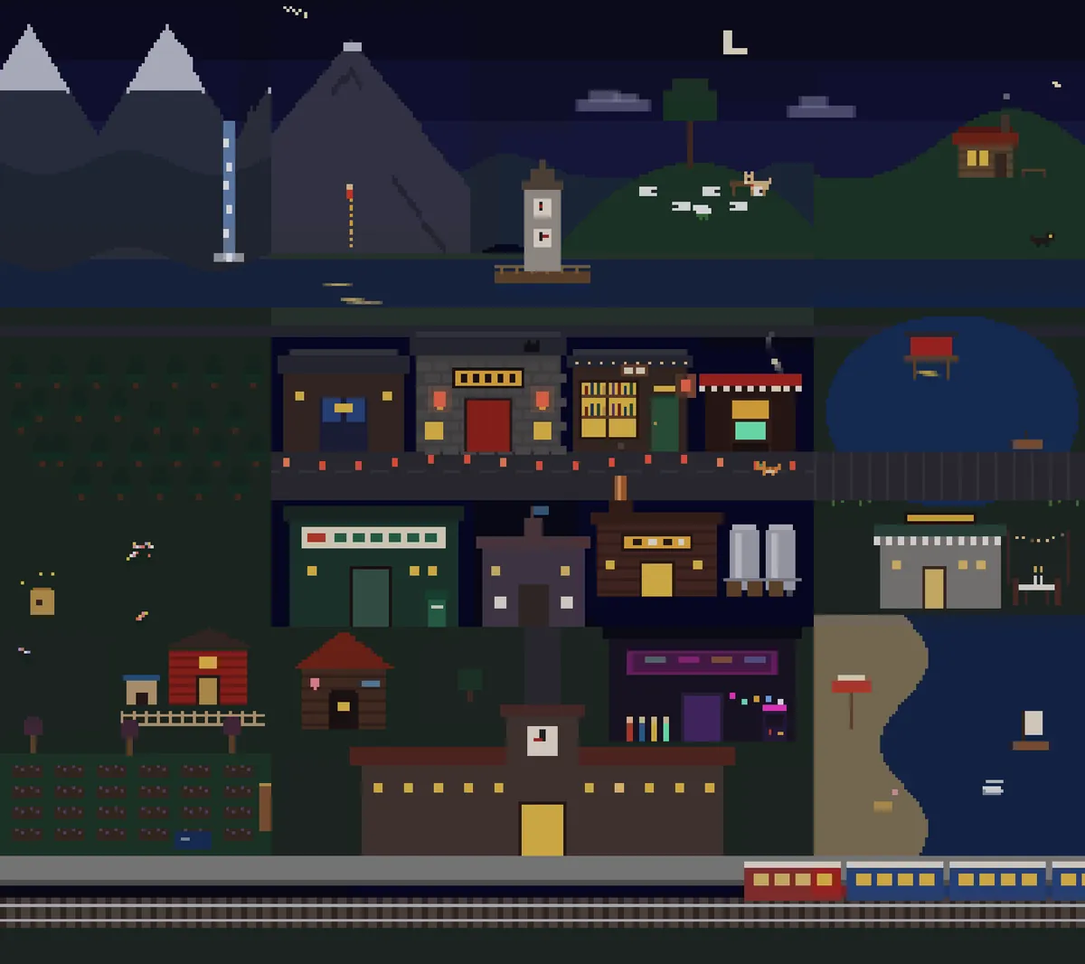
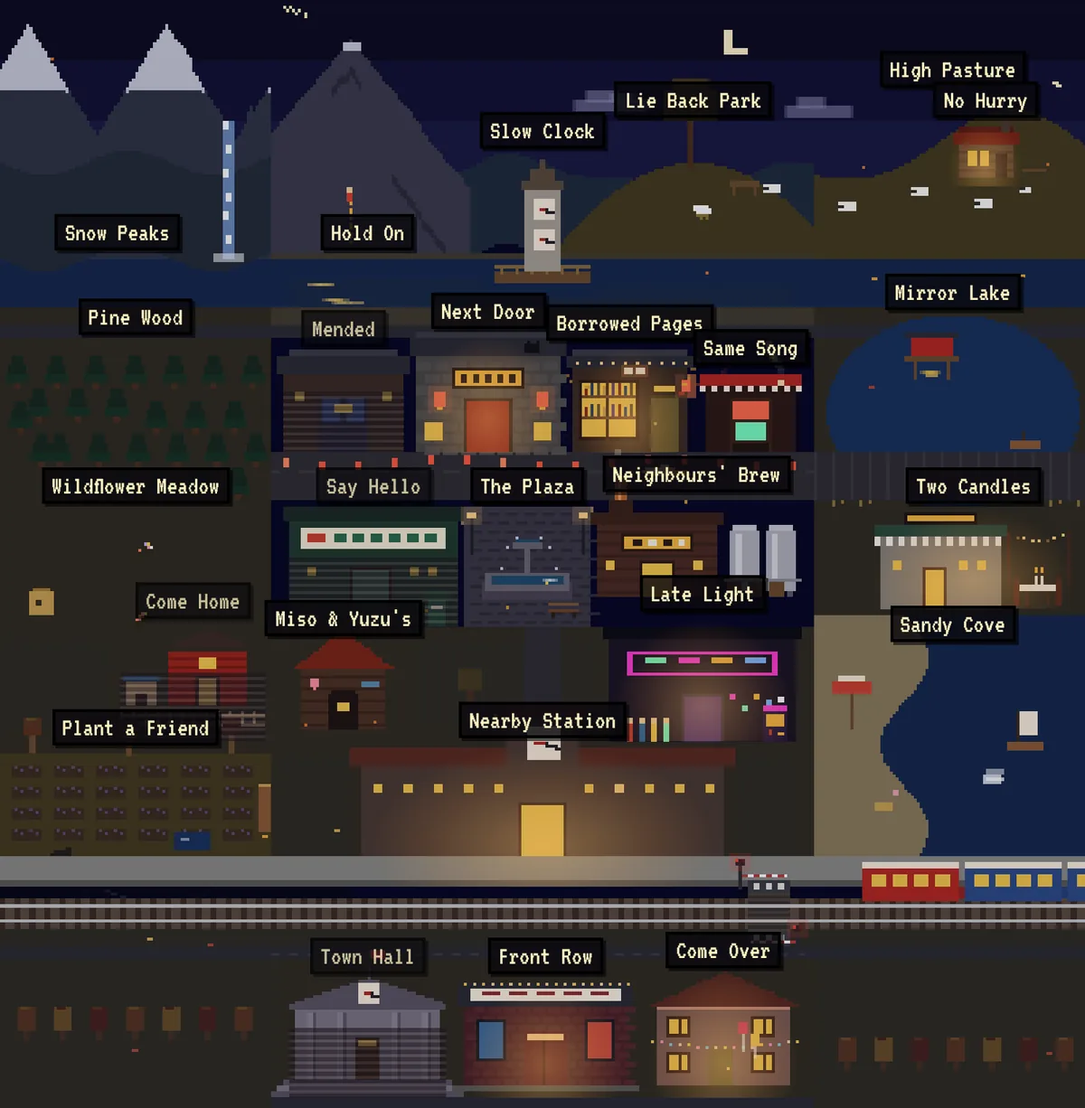
Why Nearby: four hosts, one place of each kind, Popo's tin, the visitor's season, new map; warms the town before you walk in
Claude-Session: https://claude.ai/code/session_01MUvzkAwQo5i5GES16poo5v

diff --git a/nearby/about/index.html b/nearby/about/index.html
@@ -102,6 +102,10 @@ h1{overflow-wrap:break-word;-webkit-hyphens:auto;hyphens:auto}h1 em{font-style:n
 .shot b{display:block;font:700 15px/1.2 var(--sans)}
 .shot b span{margin-right:4px}
 .shot p{margin:4px 0 0;font-size:13px;line-height:1.4;color:var(--mut)}
+.shot small{display:block;margin-bottom:5px;font:400 8px/1.4 var(--p2);letter-spacing:.04em;text-transform:uppercase;color:var(--acc2)}
+.two{display:grid;gap:14px}@media (min-width:760px){.two{grid-template-columns:1fr 1fr}}
+.two .card.night h3{font-size:28px;line-height:1.05;align-items:flex-start}
+.two canvas{width:32px;height:32px;flex:none;image-rendering:pixelated;margin-top:-2px}
 
 /* by day / after hours */
 .shift{display:grid;gap:14px}.shift>*{min-width:0}
@@ -174,8 +178,8 @@ h1{overflow-wrap:break-word;-webkit-hyphens:auto;hyphens:auto}h1 em{font-style:n
       </div>
     </div>
     <a class="frame bw" id="hero" href="/nearby/">
-      <img src="town.webp" width="1200" height="1066" alt="" data-ka="mapAlt" fetchpriority="high">
-      <span class="hour" aria-hidden="true">☾ 20:00</span>
+      <img src="town.webp" width="1200" height="1226" alt="" data-ka="mapAlt" fetchpriority="high">
+      <span class="hour" aria-hidden="true">☾ 21:20</span>
     </a>
   </section>
 
@@ -186,18 +190,34 @@ h1{overflow-wrap:break-word;-webkit-hyphens:auto;hyphens:auto}h1 em{font-style:n
       <div class="sign"><i aria-hidden="true">🌿</i><div><b data-k="r2t">Then go outside.</b><p data-k="r2">Leaving a place ends with something to do off the screen.</p></div></div>
       <div class="sign"><i aria-hidden="true">🛋</i><div><b data-k="r3t">A cabin, a candle, the stars.</b><p data-k="r3">Warm grass on the hill. Nothing to win.</p></div></div>
       <div class="sign"><i aria-hidden="true">🚫</i><div><b data-k="r4t">No scores.</b><p data-k="r4">No streaks, no badges, no leaderboards.</p></div></div>
-      <div class="sign"><i aria-hidden="true">🍸</i><div><b data-k="r5t">Wei is a guide.</b><p data-k="r5">The bartender points you somewhere, then lets you go.</p></div></div>
-      <div class="sign"><i aria-hidden="true">🔒</i><div><b data-k="r6t">Yours stays yours.</b><p><a href="/privacy/" data-k="r6">Nothing leaves your device unless you say so. No tracking.</a></p></div></div>
+      <div class="sign"><i aria-hidden="true">🍸</i><div><b data-k="r5t">Someone's behind the counter.</b><p data-k="r5">Wei, his cousin Mei, his grandmother Popo or the cats. They point you somewhere, then let you go.</p></div></div>
+      <div class="sign"><i aria-hidden="true">🔒</i><div><b data-k="r6t">Yours stays yours.</b><p><a href="/privacy/" data-k="r6">Nothing leaves your device unless you say so. No tracking, and it asks before a phone number or email goes public.</a></p></div></div>
     </div>
   </section>
 
   <section class="wrap sec" aria-labelledby="h-look">
     <div class="sh rv"><h2 id="h-look" data-k="lookH">Look around</h2><span>04</span></div>
     <div class="shots">
-      <a class="shot rv" href="/nearby/lie-back/"><div class="im"><img src="lie-back.webp" width="800" height="500" loading="lazy" alt=""></div><div><b><span aria-hidden="true">☁</span><span data-p="cloud.n">Lie Back Park</span></b><p data-p="cloud.l">Warm grass, slow clouds.</p></div></a>
-      <a class="shot rv" href="/nearby/no-hurry/"><div class="im"><img src="no-hurry.webp" width="800" height="625" loading="lazy" alt=""></div><div><b><span aria-hidden="true">🛖</span><span data-p="cabin.n">No Hurry</span></b><p data-p="cabin.l">A window, a candle, the kettle on.</p></div></a>
-      <a class="shot rv" href="/nearby/say-hello/"><div class="im"><img src="say-hello.webp" width="800" height="496" loading="lazy" alt=""></div><div><b><span aria-hidden="true">📮</span><span data-p="postcard.n">Say Hello</span></b><p data-p="postcard.l">Send a postcard that opens on the day you choose.</p></div></a>
-      <a class="shot rv" href="/nearby/two-candles/"><div class="im"><img src="two-candles.webp" width="800" height="505" loading="lazy" alt=""></div><div><b><span aria-hidden="true">🕯</span><span data-p="table.n">Two Candles</span></b><p data-p="table.l">A table for two, however far apart.</p></div></a>
+      <a class="shot rv" href="/nearby/lie-back/"><div class="im"><img src="lie-back.webp" width="800" height="500" loading="lazy" alt=""></div><div><small data-k="kCalm">Quiet</small><b><span aria-hidden="true">☁</span><span data-p="cloud.n">Lie Back Park</span></b><p data-p="cloud.l">Warm grass, slow clouds.</p></div></a>
+      <a class="shot rv" href="/nearby/plaza/"><div class="im"><img src="plaza.webp" width="800" height="500" loading="lazy" alt=""></div><div><small data-k="kMake">Make something</small><b><span aria-hidden="true">⛲</span><span data-p="plaza.n">The Plaza</span></b><p data-p="plaza.l">A fountain, a coin, a wish.</p></div></a>
+      <a class="shot rv" href="/nearby/two-candles/"><div class="im"><img src="two-candles.webp" width="800" height="505" loading="lazy" alt=""></div><div><small data-k="kFriend">With a friend</small><b><span aria-hidden="true">🕯</span><span data-p="table.n">Two Candles</span></b><p data-p="table.l">A table for two, however far apart.</p></div></a>
+      <a class="shot rv" href="/nearby/come-over/"><div class="im"><img src="come-over.webp" width="800" height="600" loading="lazy" alt=""></div><div><small data-k="kReal">Something real</small><b><span aria-hidden="true">🎈</span><span data-p="party.n">Come Over</span></b><p data-p="party.l">Plan a real get-together and see who's coming.</p></div></a>
+    </div>
+  </section>
+
+  <section class="wrap sec" aria-labelledby="h-story">
+    <div class="sh rv"><h2 id="h-story" data-k="storyH">Where it comes from</h2><span>02</span></div>
+    <div class="two">
+      <div class="card night rv">
+        <span class="k" data-k="tinK">Popo's tin</span>
+        <h3><canvas id="tin" width="16" height="16" aria-hidden="true"></canvas><span data-k="tinT">Twelve things in a blue biscuit tin.</span></h3>
+        <p data-k="tinP">Popo came from Hong Kong to Barcelona in 1968, at nineteen. The things she kept turn up around town, one at a time, and tell how Nearby began. The last one is a photo with an empty chair. It's for you.</p>
+      </div>
+      <div class="card night rv">
+        <span class="k" data-k="calK">The calendar</span>
+        <h3><span aria-hidden="true" id="seaI">🍂</span><span id="calT">It's autumn here too.</span></h3>
+        <p data-k="calP">The seasons, the length of the day and the weather follow your own calendar. Lanterns float at Mid-Autumn, roses and books come out on Sant Jordi, and lights go up over the lanes in winter.</p>
+      </div>
     </div>
   </section>
 
@@ -215,7 +235,7 @@ h1{overflow-wrap:break-word;-webkit-hyphens:auto;hyphens:auto}h1 em{font-style:n
         <div class="stars" aria-hidden="true" id="stars"></div>
         <span class="k" data-k="nightK">After hours</span>
         <h3><span aria-hidden="true">🏘</span><span data-k="town">Nearby</span></h3>
-        <p data-k="nightP">The same idea after work: a sealed postcard, a table for two, a bartender who listens.</p>
+        <p data-k="nightP">The same idea after work: a sealed postcard, a table for two, a grandmother who cooks for whoever walks in.</p>
         <a class="px pri" href="/nearby/" style="align-self:flex-start"><span data-k="walk">Walk in</span><span aria-hidden="true">→</span></a>
       </div>
     </div>
@@ -252,7 +272,7 @@ h1{overflow-wrap:break-word;-webkit-hyphens:auto;hyphens:auto}h1 em{font-style:n
     sub: ["A little world that sends you back to yours.", "一个小小的世界，把你送回你自己的世界。", "一個小小的世界，把你送回你自己的世界。", "Un mundo pequeño que te devuelve al tuyo.", "Un món petit que et torna al teu."],
     walk: ["Walk in", "走进去", "走進去", "Entra", "Entra"],
     stool: ["Pull up a stool", "拉张凳子坐", "拉張凳子坐", "Siéntate en la barra", "Seu a la barra"],
-    mapAlt: ["Nearby at night: a bar, a bookshop, a place to send postcards, a cabin on the hill, a lake, a station.", "夜里的近邻：一间酒吧、一家书店、一个寄明信片的地方、山坡上的小屋、一片湖、一座车站。", "夜裡的近鄰：一間酒吧、一家書店、一個寄明信片的地方、山坡上的小屋、一片湖、一座車站。", "Cerca de noche: un bar, una librería, un sitio para mandar postales, una cabaña en la colina, un lago, una estación.", "A Prop de nit: un bar, una llibreria, un lloc per enviar postals, una cabana al turó, un llac, una estació."],
+    mapAlt: ["Nearby at night: a bar, a bookshop, a fountain, a cabin on the hill, a lake, a station, and over the tracks a town hall, a cinema and a house with its lights on.", "夜里的近邻：一间酒吧、一家书店、一座喷泉、山坡上的小屋、一片湖、一座车站；铁轨那边还有镇公所、电影院和一栋亮着灯的房子。", "夜裡的近鄰：一間酒吧、一家書店、一座噴泉、山坡上的小屋、一片湖、一座車站；鐵軌那邊還有鎮公所、電影院和一棟亮著燈的房子。", "Cerca de noche: un bar, una librería, una fuente, una cabaña en la colina, un lago, una estación y, al otro lado de las vías, un ayuntamiento, un cine y una casa con las luces encendidas.", "A Prop de nit: un bar, una llibreria, una font, una cabana al turó, un llac, una estació i, a l'altra banda de les vies, un ajuntament, un cinema i una casa amb els llums encesos."],
     rulesH: ["House rules", "镇规", "鎮規", "Normas de la casa", "Normes de la casa"],
     r1t: ["Bring someone.", "带个人来。", "帶個人來。", "Trae a alguien.", "Porta algú."],
     r1: ["Every place works alone or with a friend far away. One link.", "每个地方都能一个人逛，也能和远方的朋友一起。一个链接就行。", "每個地方都能一個人逛，也能和遠方的朋友一起。一個連結就行。", "Cada sitio funciona solo o con un amigo lejos. Un enlace.", "Cada lloc funciona sol o amb un amic lluny. Un enllaç."],
@@ -262,18 +282,30 @@ h1{overflow-wrap:break-word;-webkit-hyphens:auto;hyphens:auto}h1 em{font-style:n
     r3: ["Warm grass on the hill. Nothing to win.", "山坡上暖暖的草地。没有输赢。", "山坡上暖暖的草地。沒有輸贏。", "Hierba tibia en la colina. Nada que ganar.", "Herba tèbia al turó. Res a guanyar."],
     r4t: ["No scores.", "不计分。", "不計分。", "Sin puntos.", "Sense punts."],
     r4: ["No streaks, no badges, no leaderboards.", "没有连续打卡，没有徽章，没有排行榜。", "沒有連續打卡，沒有徽章，沒有排行榜。", "Sin rachas, sin insignias, sin clasificaciones.", "Sense ratxes, sense insígnies, sense classificacions."],
-    r5t: ["Wei is a guide.", "Wei 只是向导。", "Wei 只是嚮導。", "Wei es un guía.", "En Wei és un guia."],
-    r5: ["The bartender points you somewhere, then lets you go.", "这位酒保给你指个地方，然后放你走。", "這位酒保給你指個地方，然後放你走。", "El barman te indica un sitio y te deja ir.", "El cambrer t'indica un lloc i et deixa anar."],
+    r5t: ["Someone's behind the counter.", "柜台后面总有人。", "櫃檯後面總有人。", "Siempre hay alguien en la barra.", "Sempre hi ha algú a la barra."],
+    r5: ["Wei, his cousin Mei, his grandmother Popo or the cats. They point you somewhere, then let you go.", "Wei、他表妹 Mei、婆婆，或者两只猫。给你指个地方，然后放你走。", "Wei、佢表妹 Mei、婆婆，或者兩隻貓。給你指個地方，然後放你走。", "Wei, su prima Mei, su abuela Popo o los gatos. Te indican un sitio y te dejan ir.", "En Wei, la seva cosina Mei, la seva àvia Popo o els gats. T'indiquen un lloc i et deixen anar."],
     r6t: ["Yours stays yours.", "你的就是你的。", "你的就是你的。", "Lo tuyo es tuyo.", "El que és teu és teu."],
-    r6: ["Nothing leaves your device unless you say so. No tracking.", "除非你同意，什么都不会离开你的设备。不追踪。", "除非你同意，什麼都不會離開你的裝置。不追蹤。", "Nada sale de tu dispositivo sin tu permiso. Sin rastreo.", "Res surt del teu dispositiu sense el teu permís. Sense rastreig."],
+    r6: ["Nothing leaves your device unless you say so. No tracking, and it asks before a phone number or email goes public.", "除非你同意，什么都不会离开你的设备。不追踪；电话号码或邮箱要公开前，会先问你一句。", "除非你同意，什麼都不會離開你的裝置。不追蹤；電話號碼或電郵要公開前，會先問你一句。", "Nada sale de tu dispositivo sin tu permiso. Sin rastreo, y antes de publicar un teléfono o un correo, te pregunta.", "Res surt del teu dispositiu sense el teu permís. Sense rastreig, i abans de publicar un telèfon o un correu, et pregunta."],
     lookH: ["Look around", "四处看看", "四處看看", "Echa un vistazo", "Fes un cop d'ull"],
+    kCalm: ["Quiet", "安静一会", "安靜一會", "Tranquilo", "Tranquil"],
+    kMake: ["Make something", "做点什么", "做點什麼", "Haz algo", "Fes alguna cosa"],
+    kFriend: ["With a friend", "和朋友一起", "和朋友一起", "Con alguien", "Amb algú"],
+    kReal: ["Something real", "来点真的", "來點真的", "Algo de verdad", "Alguna cosa de debò"],
+    storyH: ["Where it comes from", "它从哪里来", "它從哪裡來", "De dónde viene", "D'on ve"],
+    tinK: ["Popo's tin", "婆婆的饼干罐", "婆婆的餅乾罐", "La lata de Popo", "La llauna de la Popo"],
+    tinT: ["Twelve things in a blue biscuit tin.", "一个蓝色饼干罐里的十二样东西。", "一個藍色餅乾罐裡的十二樣東西。", "Doce cosas en una lata azul de galletas.", "Dotze coses en una llauna blava de galetes."],
+    tinP: ["Popo came from Hong Kong to Barcelona in 1968, at nineteen. The things she kept turn up around town, one at a time, and tell how Nearby began. The last one is a photo with an empty chair. It's for you.", "1968年，十九岁的婆婆从香港来到巴塞罗那。她留下的东西会一样一样在镇上出现，讲出近邻是怎么来的。最后一样是一张照片，上面有一把空椅子——是留给你的。", "1968年，十九歲的婆婆從香港來到巴塞隆納。她留下的東西會一樣一樣在鎮上出現，講出近鄰是怎麼來的。最後一樣是一張照片，上面有一把空椅子——是留給你的。", "Popo llegó de Hong Kong a Barcelona en 1968, con diecinueve años. Lo que guardó va apareciendo por el pueblo, una cosa cada vez, y cuenta cómo empezó Cerca. La última es una foto con una silla vacía. Es para ti.", "La Popo va arribar de Hong Kong a Barcelona el 1968, amb dinou anys. El que va guardar va apareixent pel poble, una cosa cada vegada, i explica com va començar A Prop. L'última és una foto amb una cadira buida. És per a tu."],
+    calK: ["The calendar", "日历", "日曆", "El calendario", "El calendari"],
+    calT: ["It's {s} here too.", "这里也是{s}。", "這裡也是{s}。", "Aquí también es {s}.", "Aquí també és {s}."],
+    sea: [["spring", "summer", "autumn", "winter"], ["春天", "夏天", "秋天", "冬天"], ["春天", "夏天", "秋天", "冬天"], ["primavera", "verano", "otoño", "invierno"], ["primavera", "estiu", "tardor", "hivern"]],
+    calP: ["The seasons, the length of the day and the weather follow your own calendar. Lanterns float at Mid-Autumn, roses and books come out on Sant Jordi, and lights go up over the lanes in winter.", "季节、白天的长短和天气，都跟着你自己的日历走。中秋湖上漂着灯笼，圣乔治节摆出玫瑰和书，冬天的小巷挂起彩灯。", "季節、白天的長短和天氣，都跟著你自己的日曆走。中秋湖上漂著燈籠，聖喬治節擺出玫瑰和書，冬天的小巷掛起彩燈。", "Las estaciones, lo que dura el día y el tiempo siguen tu propio calendario. Farolillos en el lago por el Medio Otoño, rosas y libros por Sant Jordi, luces sobre las calles en invierno.", "Les estacions, el que dura el dia i el temps segueixen el teu calendari. Fanalets al llac per la Festa de Mitja Tardor, roses i llibres per Sant Jordi, llums pels carrers a l'hivern."],
     shiftH: ["One question, two shifts", "一个问题，两个班次", "一個問題，兩個班次", "Una pregunta, dos turnos", "Una pregunta, dos torns"],
     dayK: ["By day", "白天", "白天", "De día", "De dia"],
     dayP: ["Better work starts between people: short, playful practice in listening, feedback and trust that ends in a real conversation.", "更好的工作，从人与人之间开始：短小好玩的倾听、反馈与信任练习，以一场真实的对话收尾。", "更好的工作，從人與人之間開始：短小好玩的傾聽、回饋與信任練習，以一場真實的對話收尾。", "El buen trabajo empieza entre personas: práctica breve y lúdica de escucha, feedback y confianza que termina en una conversación real.", "La bona feina comença entre persones: pràctica breu i lúdica d'escolta, feedback i confiança que acaba en una conversa real."],
     dayGo: ["See the practice →", "看看这些练习 →", "看看這些練習 →", "Ver las prácticas →", "Veure les pràctiques →"],
     q: ["Can a screen send us back to each other?", "屏幕能不能把我们送回彼此身边？", "螢幕能不能把我們送回彼此身邊？", "¿Puede una pantalla devolvernos los unos a los otros?", "Pot una pantalla tornar-nos els uns als altres?"],
     nightK: ["After hours", "下班以后", "下班以後", "Fuera de horario", "Fora d'horari"],
-    nightP: ["The same idea after work: a sealed postcard, a table for two, a bartender who listens.", "下班后的同一个想法：一张封存的明信片、一张双人桌、一个会倾听的酒保。", "下班後的同一個想法：一張封存的明信片、一張雙人桌、一個會傾聽的酒保。", "La misma idea después del trabajo: una postal sellada, una mesa para dos, un barman que escucha.", "La mateixa idea després de la feina: una postal segellada, una taula per a dos, un cambrer que escolta."],
+    nightP: ["The same idea after work: a sealed postcard, a table for two, a grandmother who cooks for whoever walks in.", "下班后的同一个想法：一张封存的明信片、一张双人桌、一位给每个进门的人做饭的婆婆。", "下班後的同一個想法：一張封存的明信片、一張雙人桌、一位給每個進門的人煮飯的婆婆。", "La misma idea después del trabajo: una postal sellada, una mesa para dos, una abuela que cocina para quien entre.", "La mateixa idea després de la feina: una postal segellada, una taula per a dos, una àvia que cuina per a qui entri."],
     say: ["*slides a coaster* When you're done here, go and see someone you love.", "*推过来一张杯垫* 待够了，就去见你爱的人吧。", "*推過來一張杯墊* 待夠了，就去見你愛的人吧。", "*desliza un posavasos* Cuando acabes aquí, ve a ver a alguien que quieras.", "*fa lliscar un sotagot* Quan acabis aquí, ves a veure algú que estimis."],
     weiCap: ["Wei, the bartender at Next Door", "Wei，“隔壁”的调酒师", "Wei，「隔壁」的調酒師", "Wei, el barman de Al Lado", "En Wei, el cambrer d'Al Costat"],
     irl: ["Meet Wei IRL", "见见 Wei", "見見 Wei", "Conoce a Wei", "Coneix en Wei"],
@@ -285,8 +317,8 @@ h1{overflow-wrap:break-word;-webkit-hyphens:auto;hyphens:auto}h1 em{font-style:n
   /* the places' own names and lines: the same words as the town's list (FBWorld.PLACES in build/fbl.js) */
   var P = {
     cloud: [["Lie Back Park", "看云坡", "看雲坡", "Parque Panza Arriba", "Parc Panxa Enlaire"], ["Warm grass, slow clouds.", "暖暖的草地，慢慢的云。", "暖暖的草地，慢慢的雲。", "Hierba tibia, nubes lentas.", "Herba tèbia, núvols lents."]],
-    cabin: [["No Hurry", "不急", "不急", "Sin Prisa", "Sense Pressa"], ["A window, a candle, the kettle on.", "一扇窗，一支蜡烛，水壶在烧。", "一扇窗，一支蠟燭，水壺在燒。", "Una ventana, una vela, la tetera al fuego.", "Una finestra, una espelma, la tetera al foc."]],
-    postcard: [["Say Hello", "问个好", "問個好", "Di Hola", "Digues Hola"], ["Send a postcard that opens on the day you choose.", "寄一张明信片，到你选的那天才打开。", "寄一張明信片，到你選的那天才打開。", "Envía una postal que se abre el día que elijas.", "Envia una postal que s'obre el dia que triïs."]],
+    plaza: [["The Plaza", "广场", "廣場", "La Plaza", "La Plaça"], ["A fountain, a coin, a wish.", "一座喷泉，一枚硬币，一个愿望。", "一座噴泉，一枚硬幣，一個願望。", "Una fuente, una moneda, un deseo.", "Una font, una moneda, un desig."]],
+    party: [["Come Over", "来我家", "來我家", "Ven a Casa", "Vine a Casa"], ["Plan a real get-together and see who's coming.", "办一次真实的聚会，看看谁会来。", "辦一次真實的聚會，看看誰會來。", "Organiza un encuentro de verdad y mira quién viene.", "Organitza una trobada de debò i mira qui ve."]],
     table: [["Two Candles", "双烛小馆", "雙燭小館", "Dos Velas", "Dues Espelmes"], ["A table for two, however far apart.", "无论相隔多远，都有一张双人桌。", "無論相隔多遠，都有一張雙人桌。", "Una mesa para dos, por lejos que estéis.", "Una taula per a dos, per lluny que sigueu."]]
   };
 
@@ -300,6 +332,12 @@ h1{overflow-wrap:break-word;-webkit-hyphens:auto;hyphens:auto}h1 em{font-style:n
   if (!lang) { var nl = navigator.languages || [navigator.language || "en"]; for (var j = 0; j < nl.length && !lang; j++) lang = norm(nl[j]); }
   lang = lang || "en";
 
+  /* the visitor's own season, the way the town works it out (FBWorld.season in build/fbl.js): the real month, turned round in the south */
+  function season() {
+    var m = new Date().getMonth(), z = ""; try { z = Intl.DateTimeFormat().resolvedOptions().timeZone || ""; } catch (e) {}
+    if (/^(Australia|Antarctica)\/|^Pacific\/(Auckland|Chatham|Fiji|Noumea|Tongatapu|Apia|Efate|Norfolk)|^America\/(Argentina|Santiago|Sao_Paulo|Montevideo|Asuncion|Buenos_Aires|La_Paz|Punta_Arenas|Cordoba)|^Africa\/(Johannesburg|Maputo|Harare|Lusaka|Windhoek|Gaborone|Maseru|Mbabane|Blantyre)|^Indian\/(Mauritius|Reunion|Antananarivo)/.test(z)) m = (m + 6) % 12;
+    return [3, 3, 0, 0, 0, 1, 1, 1, 2, 2, 2, 3][m];
+  }
   function paint() {
     var n = LANGS.indexOf(lang); if (n < 0) n = 0;
     document.documentElement.lang = lang === "zh" ? "zh-Hans" : lang;
@@ -310,6 +348,7 @@ h1{overflow-wrap:break-word;-webkit-hyphens:auto;hyphens:auto}h1 em{font-style:n
     document.querySelectorAll("[data-p]").forEach(function (e) { var k = e.getAttribute("data-p").split("."), v = P[k[0]]; if (v) e.textContent = v[k[1] === "n" ? 0 : 1][n]; });
     var m = T.made[n], md = document.getElementById("made"), a = md.querySelector(".ai"), h = md.querySelector(".h");
     a.textContent = T.ai[n]; md.textContent = ""; md.appendChild(document.createTextNode(m[0])); md.appendChild(a); md.appendChild(document.createTextNode(m[1])); md.appendChild(h); if (m[2]) md.appendChild(document.createTextNode(m[2]));
+    var si = season(); document.getElementById("calT").textContent = T.calT[n].split("{s}").join(T.sea[n][si]); document.getElementById("seaI").textContent = ["🌸", "☀", "🍂", "❄"][si];
     document.getElementById("ll").textContent = SHORT[n];
     document.getElementById("lb").setAttribute("aria-label", "Language: " + NAMES[n]);
   }
@@ -350,6 +389,28 @@ h1{overflow-wrap:break-word;-webkit-hyphens:auto;hyphens:auto}h1 em{font-style:n
   /* a few stars over After hours */
   var st = document.getElementById("stars");
   for (var s = 0; s < 26; s++) { var d = document.createElement("i"); d.style.left = (Math.random() * 100).toFixed(1) + "%"; d.style.top = (Math.random() * 100).toFixed(1) + "%"; d.style.animationDelay = (Math.random() * 3).toFixed(2) + "s"; st.appendChild(d); }
+
+  /* Popo's tin: a blue biscuit tin, gold rim, in pixels */
+  var tc = document.getElementById("tin").getContext("2d");
+  [[2,4,12,2,"#c9a34a"],[3,3,10,1,"#e8c46a"],[2,6,12,8,"#2f5fa8"],[2,6,12,1,"#4b7cc4"],[2,13,12,1,"#1d3f74"],[5,8,6,3,"#f3ead8"],[6,9,4,1,"#c2412d"],[2,10,1,1,"#e8c46a"],[13,10,1,1,"#e8c46a"]].forEach(function (r) { tc.fillStyle = r[4]; tc.fillRect(r[0], r[1], r[2], r[3]); });
+
+  /* the town loads before you walk in: once the page is quiet (or as soon as a finger or pointer heads for a link into town),
+     its page and that page's own scripts and styles go into the browser's cache, at low priority; same site only, nothing on Save-Data or 2G */
+  var warmed = {}, cn = navigator.connection || {};
+  var slow = cn.saveData || /(^|-)2g$/.test(cn.effectiveType || "");
+  function warm(href, hi) {
+    if (slow || !window.fetch) return; var u; try { u = new URL(href, location.href); } catch (e) { return; }
+    if (u.origin !== location.origin || !/^\/nearby\//.test(u.pathname)) return;
+    var k = u.pathname; if (warmed[k]) return; warmed[k] = 1;
+    var o = { credentials: "same-origin", priority: hi ? "high" : "low" };
+    fetch(k, o).then(function (r) { return r.ok ? r.text() : ""; }).then(function (h) {
+      var re = /<(?:script[^>]+src|link[^>]+href)="([^"]+\.(?:js|css)(?:\?[^"]*)?)"/g, m;
+      while ((m = re.exec(h))) { var a; try { a = new URL(m[1], location.origin + k); } catch (e) { continue; } if (a.origin === location.origin && !/(^|\/)(sw|config)\.js$/.test(a.pathname)) fetch(a.href, o).catch(function () {}); }
+    }).catch(function () {});
+  }
+  function hint(e) { var a = e.target.closest && e.target.closest('a[href^="/nearby/"]'); if (a) warm(a.getAttribute("href"), e.type !== "pointerover"); }
+  ["pointerover", "pointerdown", "focusin"].forEach(function (t) { document.addEventListener(t, hint, { passive: true }); });
+  addEventListener("load", function () { var go = function () { warm("/nearby/"); }; setTimeout(function () { (window.requestIdleCallback || setTimeout)(go, { timeout: 4000 }); }, 2500); });
 
   /* the map starts in black and white and the colour comes in when you look at it, as it does in town */
   var hero = document.getElementById("hero");
